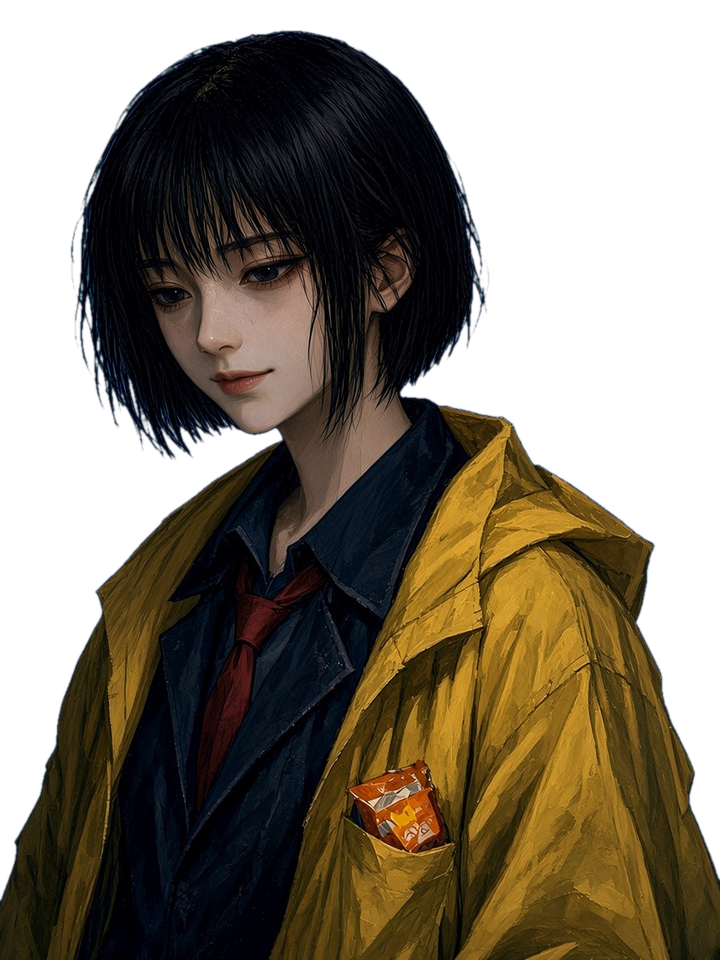
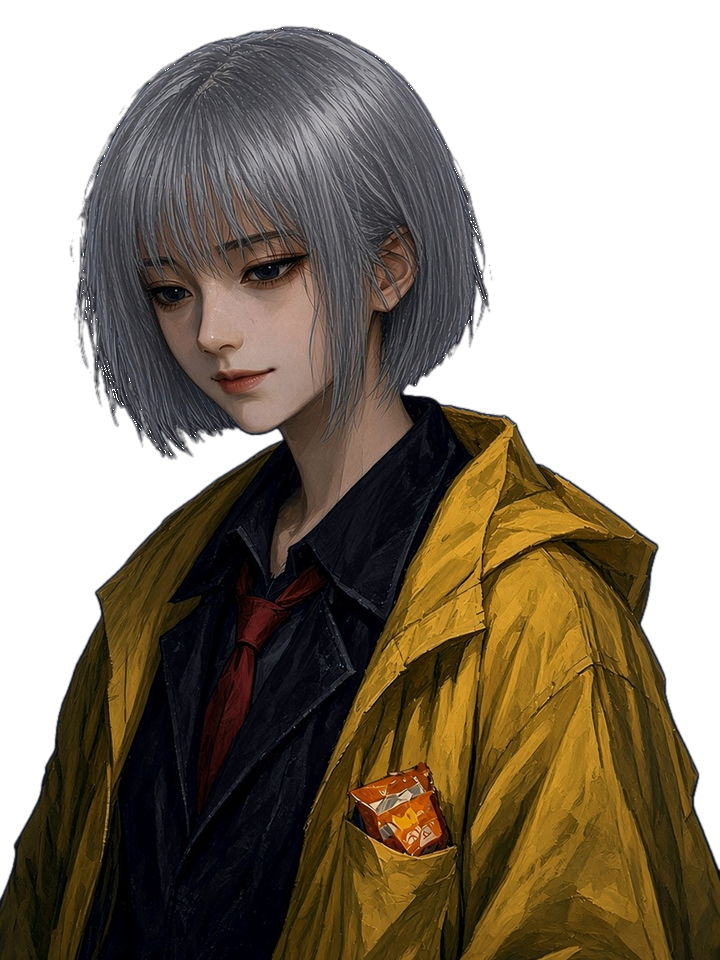
Give 赵宜 granny-grey hair in her portrait.
Keep the short bob, yellow coat, and transparent cutout; only the hair color changes to cool silver-ash 奶奶灰. The SNES fallback sprite uses the same grey.

diff --git a/sfc-vn/tools/art.py b/sfc-vn/tools/art.py
@@ -298,9 +298,9 @@ def _fallback_portrait(name: str) -> Image.Image:
     d = ImageDraw.Draw(im)
     if name == "linxia":
         d.ellipse((18, 14, 54, 56), fill=(255, 214, 180))
-        d.pieslice((12, 4, 60, 48), 180, 360, fill=(28, 20, 18))
-        d.polygon([(12, 24), (6, 58), (20, 44)], fill=(28, 20, 18))
-        d.polygon([(60, 24), (66, 58), (52, 44)], fill=(28, 20, 18))
+        d.pieslice((12, 4, 60, 48), 180, 360, fill=(168, 172, 178))
+        d.polygon([(12, 24), (6, 58), (20, 44)], fill=(168, 172, 178))
+        d.polygon([(60, 24), (66, 58), (52, 44)], fill=(168, 172, 178))
         _eyes(d, 30)
         d.arc((30, 36, 42, 46), 20, 160, fill=(180, 80, 90), width=2)
         d.rectangle((20, 54, 52, 94), fill=(255, 208, 46))
